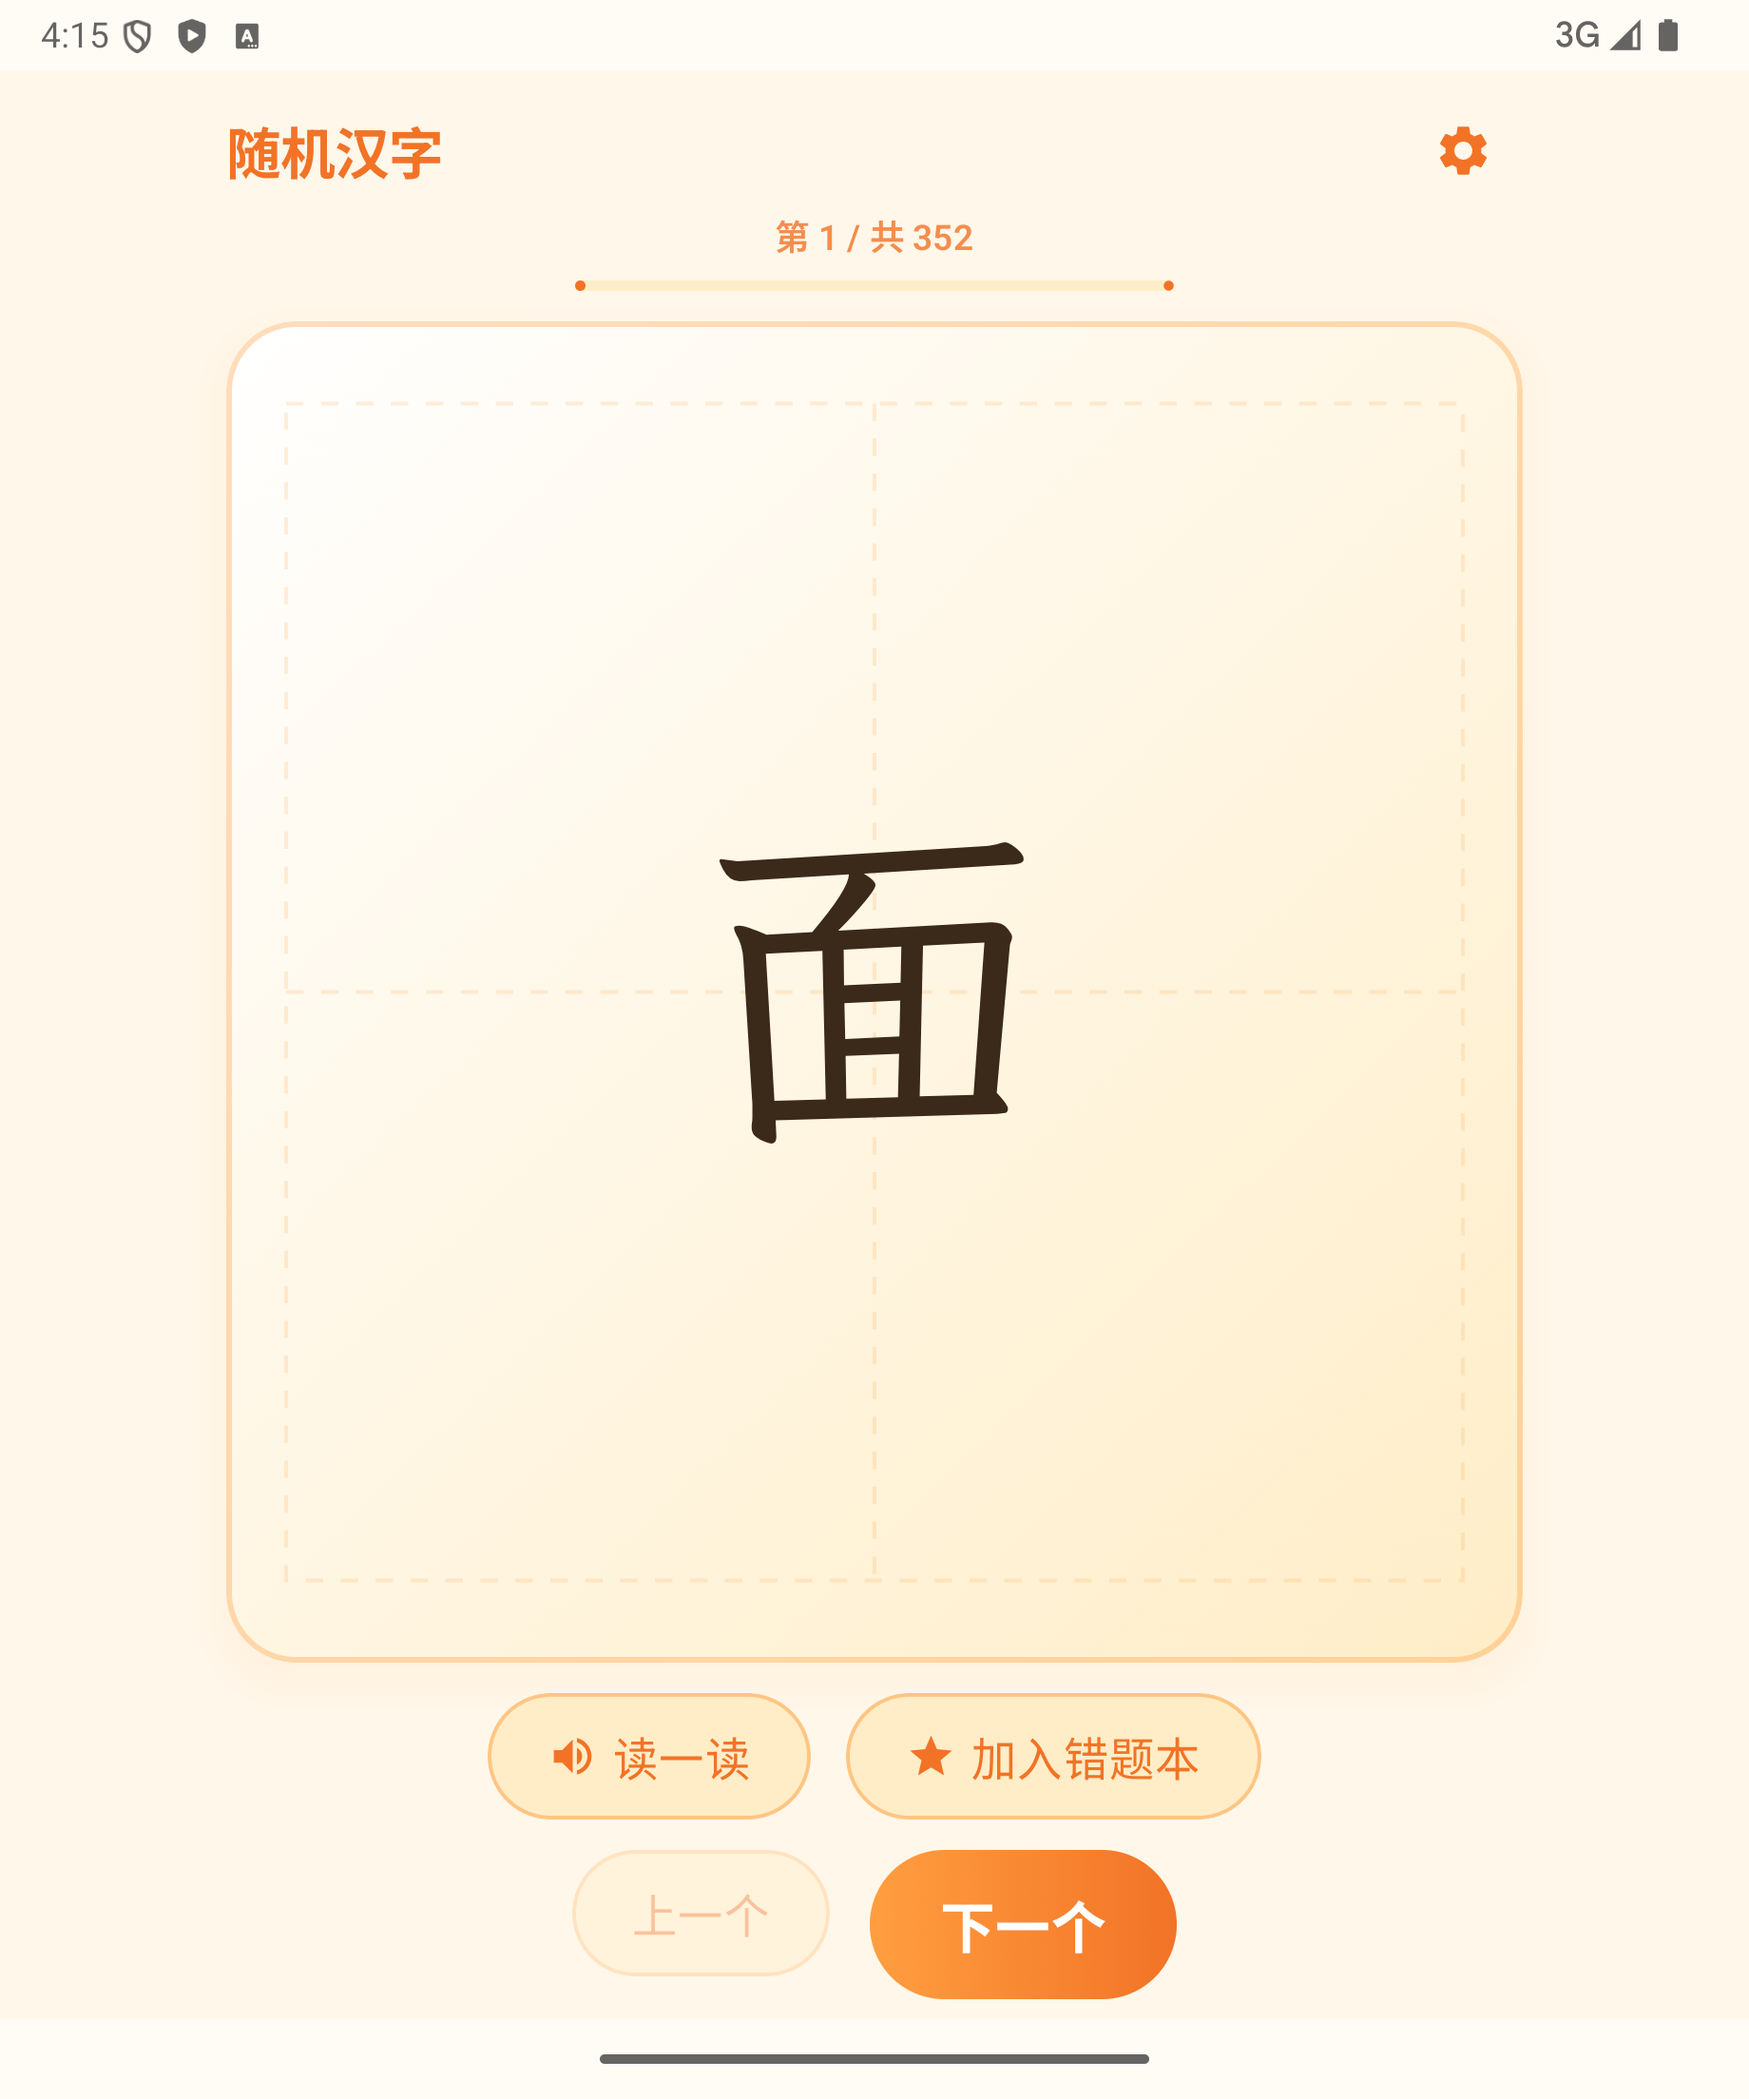
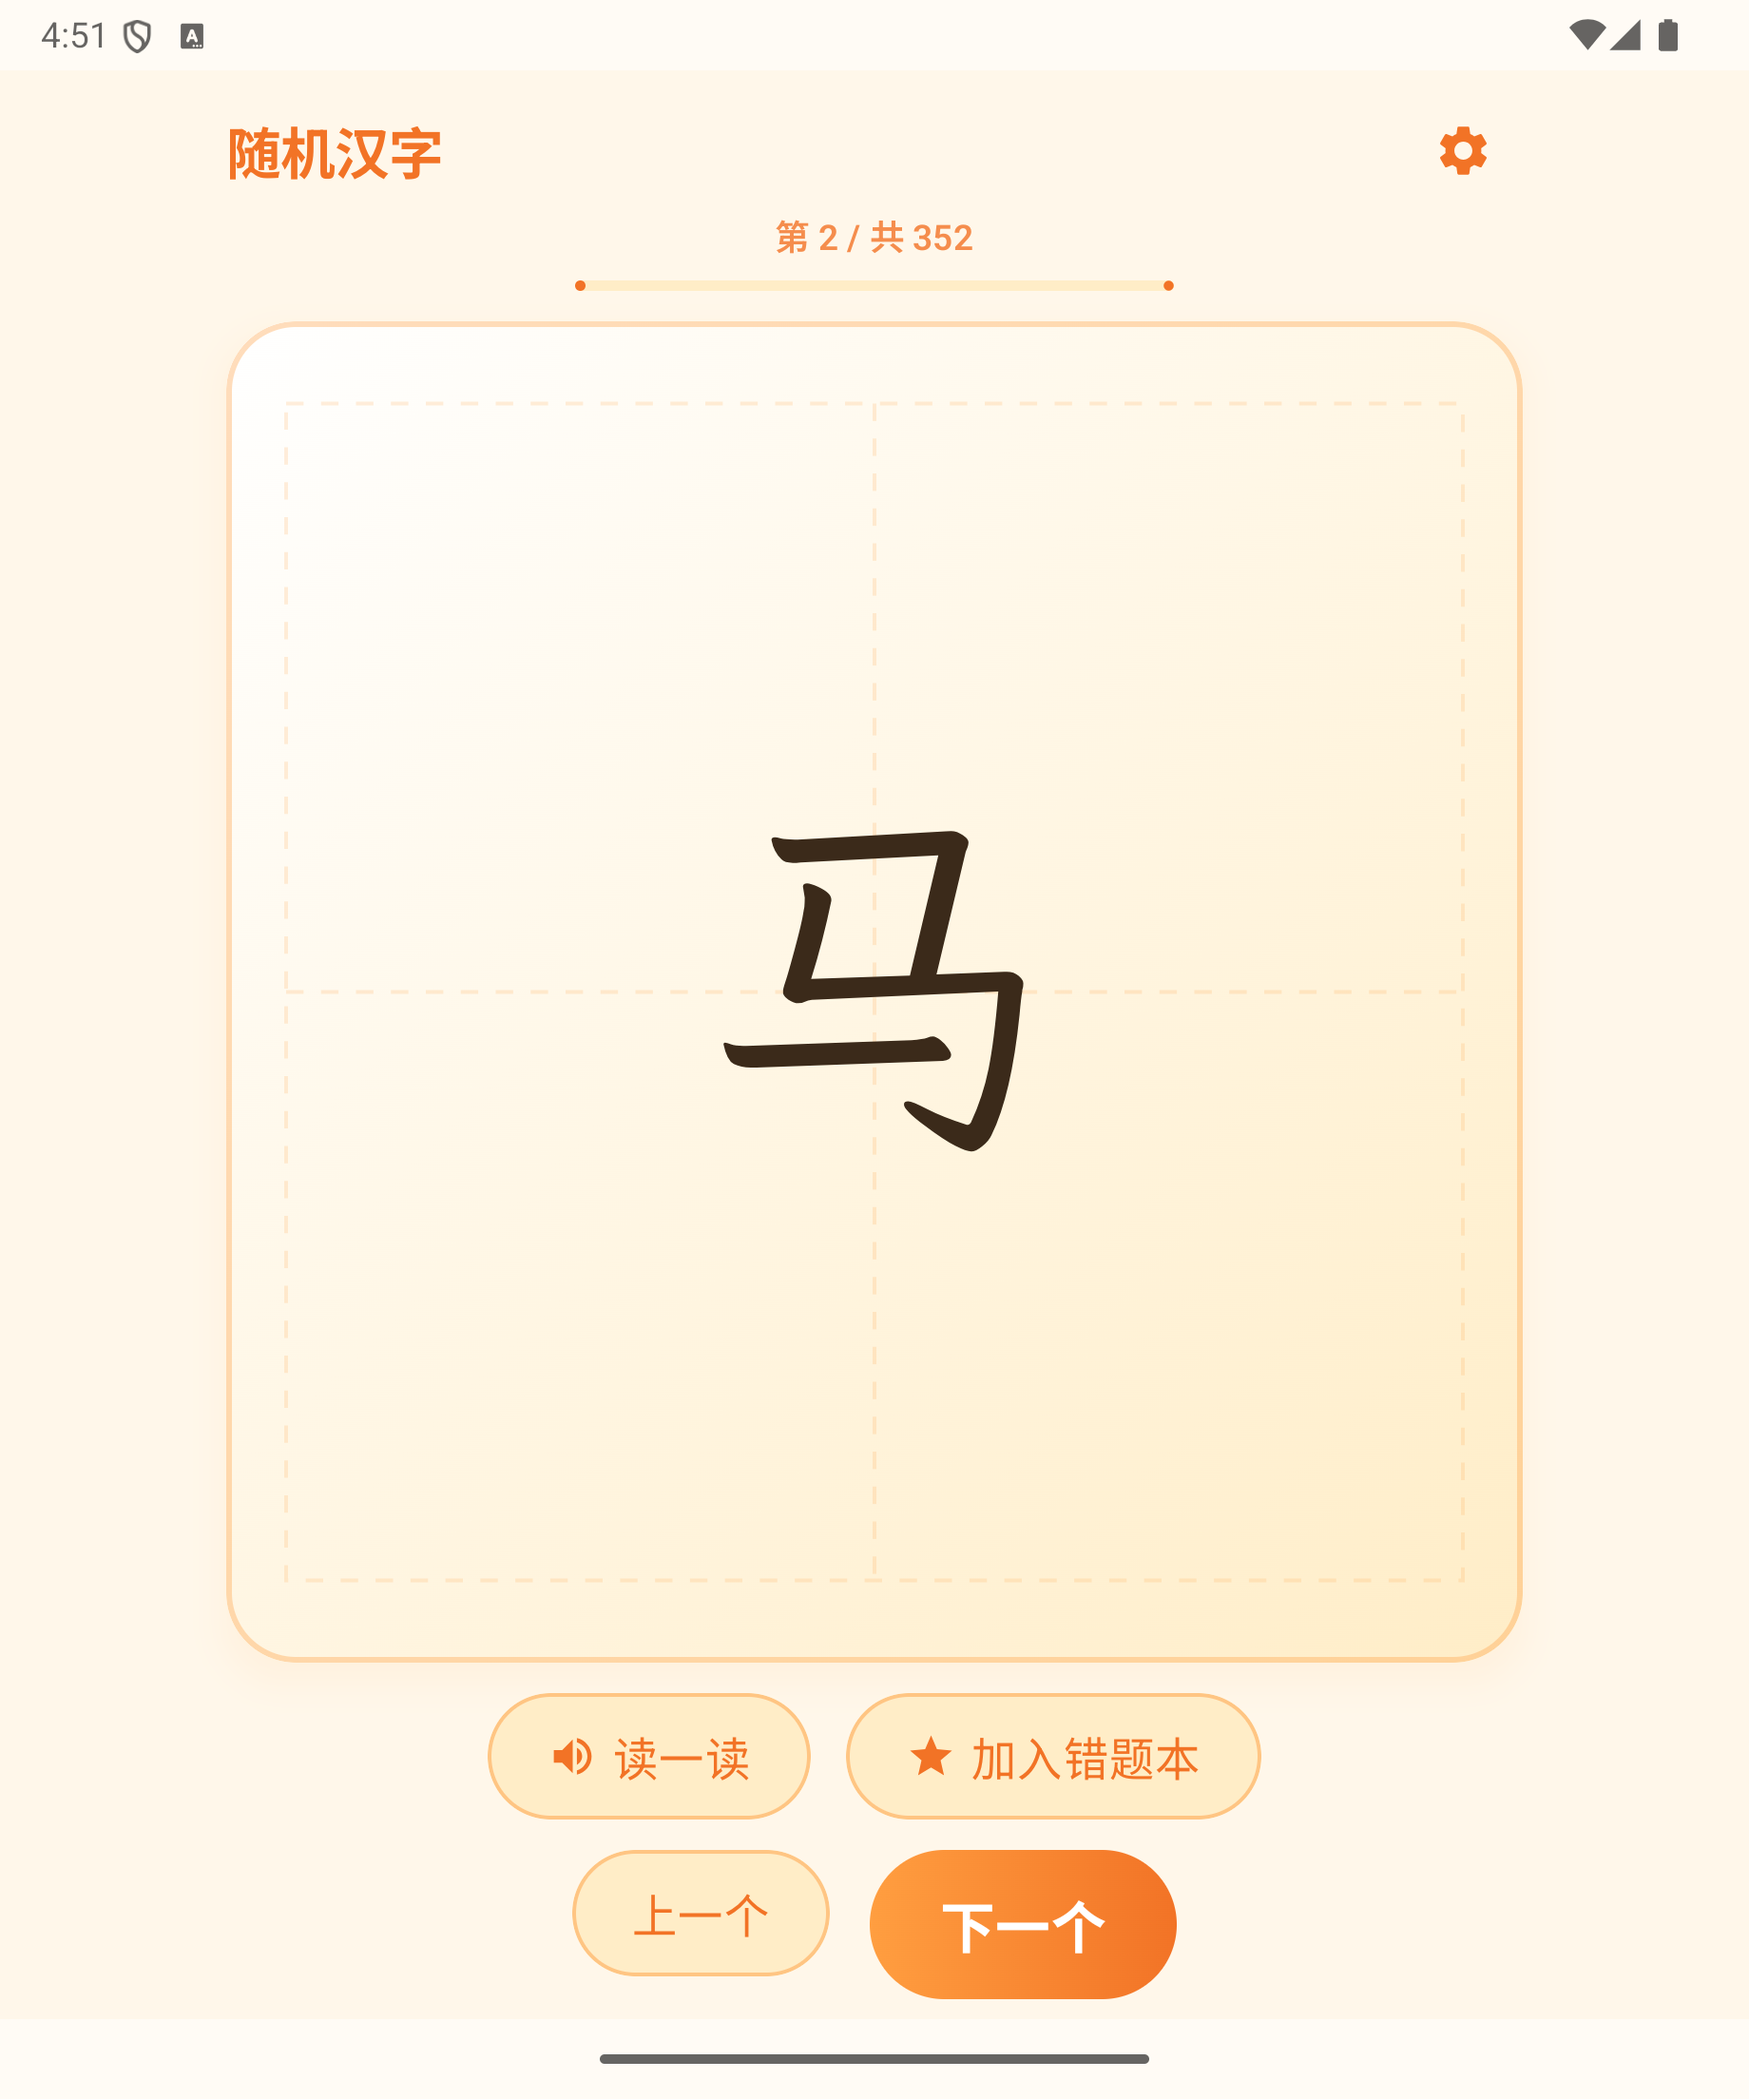
fix(android): declare TTS query and make study layout adaptive

diff --git a/android/app/src/main/java/com/liuli/hanzirandom/ui/StudyScreen.kt b/android/app/src/main/java/com/liuli/hanzirandom/ui/StudyScreen.kt
@@ -10,6 +10,8 @@ import androidx.compose.foundation.layout.Arrangement
 import androidx.compose.foundation.layout.Box
 import androidx.compose.foundation.layout.BoxWithConstraints
 import androidx.compose.foundation.layout.Column
+import androidx.compose.foundation.layout.ExperimentalLayoutApi
+import androidx.compose.foundation.layout.FlowRow
 import androidx.compose.foundation.layout.Row
 import androidx.compose.foundation.layout.Spacer
 import androidx.compose.foundation.layout.fillMaxHeight
@@ -19,6 +21,8 @@ import androidx.compose.foundation.layout.height
 import androidx.compose.foundation.layout.padding
 import androidx.compose.foundation.layout.width
 import androidx.compose.foundation.layout.widthIn
+import androidx.compose.foundation.rememberScrollState
+import androidx.compose.foundation.verticalScroll
 import androidx.compose.material.icons.Icons
 import androidx.compose.material.icons.filled.CheckCircle
 import androidx.compose.material.icons.filled.Close
@@ -35,7 +39,6 @@ import androidx.compose.material3.MaterialTheme
 import androidx.compose.material3.Text
 import androidx.compose.runtime.Composable
 import androidx.compose.runtime.getValue
-import androidx.compose.runtime.mutableFloatStateOf
 import androidx.compose.runtime.mutableStateOf
 import androidx.compose.runtime.remember
 import androidx.compose.runtime.setValue
@@ -47,6 +50,7 @@ import androidx.compose.ui.platform.LocalContext
 import androidx.compose.ui.platform.LocalDensity
 import androidx.compose.ui.platform.LocalView
 import androidx.compose.ui.platform.testTag
+import androidx.compose.ui.semantics.Role
 import androidx.compose.ui.text.font.FontWeight
 import androidx.compose.ui.unit.dp
 import androidx.compose.ui.unit.sp
@@ -60,6 +64,7 @@ import com.liuli.hanzirandom.ui.theme.cardBackground
 
 enum class StudyMode { Learning, Review }
 
+@OptIn(ExperimentalLayoutApi::class)
 @Composable
 fun StudyScreen(
     state: SessionState,
@@ -86,14 +91,25 @@ fun StudyScreen(
             .background(HanziColors.SoftYellow.copy(alpha = 0.25f)),
         contentAlignment = Alignment.TopCenter
     ) {
-        Column(
-            modifier = Modifier
-                .widthIn(max = 560.dp)
-                .fillMaxWidth()
-                .fillMaxHeight()
-                .padding(horizontal = 20.dp, vertical = 8.dp),
-            horizontalAlignment = Alignment.CenterHorizontally
-        ) {
+        BoxWithConstraints(Modifier.fillMaxSize()) {
+            val compact = maxHeight < 560.dp ||
+                LocalDensity.current.fontScale > 1.15f
+            val scrollState = rememberScrollState()
+            Column(
+                modifier = Modifier
+                    .align(Alignment.TopCenter)
+                    .widthIn(max = 560.dp)
+                    .fillMaxWidth()
+                    .then(
+                        if (compact) {
+                            Modifier.verticalScroll(scrollState)
+                        } else {
+                            Modifier.fillMaxHeight()
+                        }
+                    )
+                    .padding(horizontal = 20.dp, vertical = 8.dp),
+                horizontalAlignment = Alignment.CenterHorizontally
+            ) {
             Row(
                 modifier = Modifier.fillMaxWidth(),
                 verticalAlignment = Alignment.CenterVertically
@@ -138,28 +154,49 @@ fun StudyScreen(
                     },
                     modifier = Modifier
                         .padding(top = 8.dp)
-                        .width(240.dp),
+                        .width(240.dp)
+                        .testTag("progressBar"),
                     color = HanziColors.AccentDeep,
                     trackColor = HanziColors.SoftYellow
                 )
             }
 
-            Box(
-                modifier = Modifier
-                    .weight(1f)
-                    .fillMaxWidth()
-                    .padding(vertical = 12.dp)
-            ) {
-                CharacterArea(
-                    state = state,
-                    fontSize = fontSize,
-                    swipeEnabled = swipeEnabled,
-                    mode = mode,
-                    onNext = { haptic(); onNext() },
-                    onPrevious = { haptic(); onPrevious() },
-                    onOpenSettings = onOpenSettings,
-                    onCopy = { current -> copyToClipboard(context, current) }
-                )
+            if (compact) {
+                Box(
+                    modifier = Modifier
+                        .fillMaxWidth()
+                        .height(260.dp)
+                        .padding(vertical = 12.dp)
+                ) {
+                    CharacterArea(
+                        state = state,
+                        fontSize = fontSize,
+                        swipeEnabled = swipeEnabled,
+                        mode = mode,
+                        onNext = { haptic(); onNext() },
+                        onPrevious = { haptic(); onPrevious() },
+                        onOpenSettings = onOpenSettings,
+                        onCopy = { current -> copyToClipboard(context, current) }
+                    )
+                }
+            } else {
+                Box(
+                    modifier = Modifier
+                        .weight(1f)
+                        .fillMaxWidth()
+                        .padding(vertical = 12.dp)
+                ) {
+                    CharacterArea(
+                        state = state,
+                        fontSize = fontSize,
+                        swipeEnabled = swipeEnabled,
+                        mode = mode,
+                        onNext = { haptic(); onNext() },
+                        onPrevious = { haptic(); onPrevious() },
+                        onOpenSettings = onOpenSettings,
+                        onCopy = { current -> copyToClipboard(context, current) }
+                    )
+                }
             }
 
             if (state.current != null) {
@@ -168,16 +205,21 @@ fun StudyScreen(
                     verticalArrangement = Arrangement.spacedBy(12.dp)
                 ) {
                     val current = state.current
-                    Row(horizontalArrangement = Arrangement.spacedBy(14.dp)) {
+                    FlowRow(
+                        horizontalArrangement = Arrangement.spacedBy(14.dp),
+                        verticalArrangement = Arrangement.spacedBy(12.dp)
+                    ) {
                         PillButton(
                             text = "读一读",
                             onClick = { onSpeak(current) },
+                            modifier = Modifier.testTag("speakButton"),
                             style = PillStyle.Secondary,
                             icon = Icons.Filled.VolumeUp
                         )
                         PillButton(
                             text = if (justAddedMistake) "已加入 ✓" else "加入错题本",
                             onClick = { haptic(); onAddMistake(current) },
+                            modifier = Modifier.testTag("addMistakeButton"),
                             style = PillStyle.Secondary,
                             icon = if (justAddedMistake) {
                                 Icons.Filled.CheckCircle
@@ -190,6 +232,7 @@ fun StudyScreen(
                         PillButton(
                             text = "删除错题",
                             onClick = { haptic(); onRemoveMistake(current) },
+                            modifier = Modifier.testTag("deleteMistakeButton"),
                             style = PillStyle.Danger,
                             icon = Icons.Filled.Delete
                         )
@@ -206,6 +249,7 @@ fun StudyScreen(
                     onNext = { haptic(); onNext() },
                     onReset = { haptic(); onReset() }
                 )
+            }
             }
         }
     }
@@ -231,7 +275,6 @@ private fun CharacterArea(
     if (current == null) return
 
     var showMenu by remember { mutableStateOf(false) }
-    var drag by remember { mutableFloatStateOf(0f) }
 
     BoxWithConstraints(
         modifier = Modifier
@@ -239,6 +282,7 @@ private fun CharacterArea(
             .cardBackground()
             .pointerInput(swipeEnabled, current) {
                 if (!swipeEnabled) return@pointerInput
+                var drag = 0f
                 detectHorizontalDragGestures(
                     onHorizontalDrag = { change, amount ->
                         change.consume()
@@ -255,6 +299,9 @@ private fun CharacterArea(
             .combinedClickable(
                 interactionSource = remember { MutableInteractionSource() },
                 indication = null,
+                onClickLabel = "下一个",
+                onLongClickLabel = "复制",
+                role = Role.Button,
                 onClick = onNext,
                 onLongClick = { showMenu = true }
             )
@@ -348,15 +395,22 @@ private fun BottomControls(
             PillButton(
                 text = "上一个",
                 onClick = onPrevious,
+                modifier = Modifier.testTag("previousButton"),
                 style = PillStyle.Secondary,
                 enabled = state.canGoPrevious
             )
             if (showReset) {
-                PillButton(text = "重置", onClick = onReset, style = PillStyle.Primary)
+                PillButton(
+                    text = "重置",
+                    onClick = onReset,
+                    modifier = Modifier.testTag("resetButton"),
+                    style = PillStyle.Primary
+                )
             } else {
                 PillButton(
                     text = "下一个",
                     onClick = onNext,
+                    modifier = Modifier.testTag("nextButton"),
                     style = PillStyle.Primary,
                     enabled = state.canGoNext
                 )

diff --git a/android/app/src/main/java/com/liuli/hanzirandom/ui/StudyViewModel.kt b/android/app/src/main/java/com/liuli/hanzirandom/ui/StudyViewModel.kt
@@ -48,13 +48,17 @@ class StudyViewModel(
     companion object {
         fun factory(app: HanziApplication): ViewModelProvider.Factory =
             object : ViewModelProvider.Factory {
-                @Suppress("UNCHECKED_CAST")
-                override fun <T : ViewModel> create(modelClass: Class<T>): T =
-                    StudyViewModel(
+                override fun <T : ViewModel> create(modelClass: Class<T>): T {
+                    require(modelClass.isAssignableFrom(StudyViewModel::class.java)) {
+                        "Unknown ViewModel class: ${modelClass.name}"
+                    }
+                    @Suppress("UNCHECKED_CAST")
+                    return StudyViewModel(
                         app.characterRepository,
                         app.settingsRepository,
                         app.speechService
                     ) as T
+                }
             }
     }
 }
